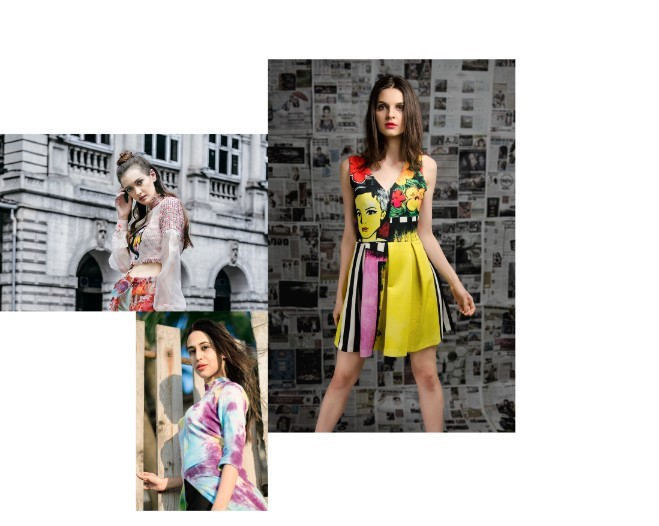
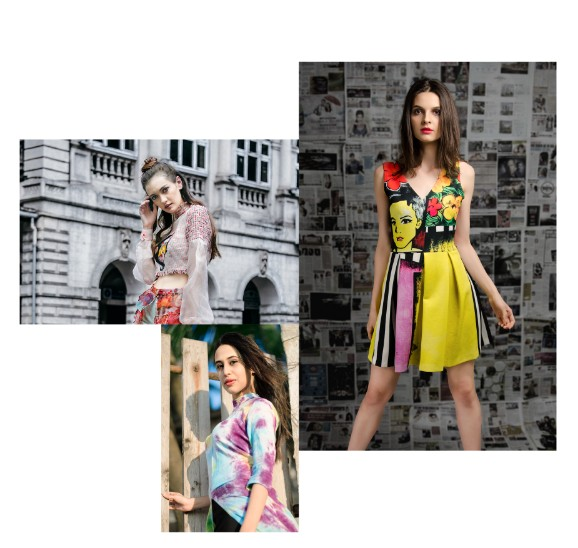
yaaay home slider works

diff --git a/index.html b/index.html
@@ -68,13 +68,12 @@
         <div class="col-md-7 center-block text-center " >
                    <div class="row text-center " style="padding-top:1%;">
                       
-                    
-                    
-                       <div id="slidecontainer">
-                           <img src="assets/grid/1min.png" alt="" />
-                           <img src="assets/grid/2min.png" alt="" />
-                           <img src="assets/grid/3min.png" alt="" />
-                           <img src="assets/grid/4min.png" alt="" />
+            
+                       <div id="slidecontainer" >
+                           <img src="assets/grid/1.jpg" alt="" style="background-color:white;" />
+                           <img src="assets/grid/2.jpg" alt="" />
+                           <img src="assets/grid/3.jpg" alt="" />
+                           <img src="assets/grid/4.jpg" alt="" />
                        </div>
                     
                     
@@ -138,7 +137,6 @@
                     pagination: false,
                     captions: false,
                     transitions: tarray,
-                   // lazyLoad: 'ondemand',
                     delay: 5500
                 });
             });
